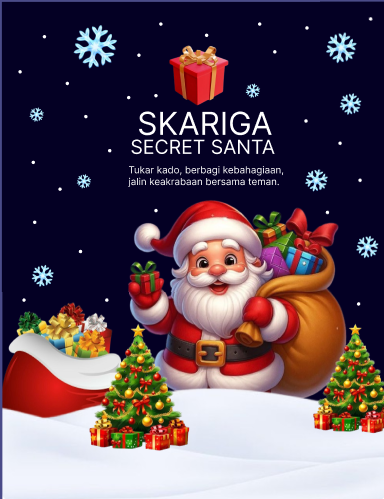
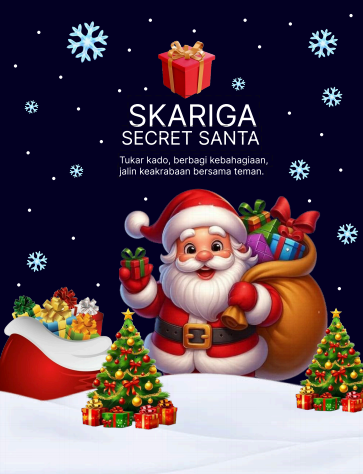
ubah page login

diff --git a/assets/css/login.css b/assets/css/login.css
@@ -4,18 +4,87 @@ body {
     color: #fff;
 }
 
-.login-box {
+.login-container {
+    width: 90%;
+    max-width: 900px;
+    height: 550px;
+    display: flex;
+    background: white;
+    overflow: hidden;
+    border-radius: 5px;
+}
+
+.login-image {
     width: 50%;
     height: 100vh;
     background-image: url('../img/login.png');
     background-size: cover;
     background-position: center;
+    background-repeat: no-repeat;
+
 }
-.login-image {
-        width : 505;
-        height :100vh;
-        display: flex;
-        align-items: center;
-        justify-content: center;
-        padding: 40o
-    }
+.login-box {
+    width: 50%;
+    height: 100%;
+    background: white;
+    display: flex;
+    flex-direction: column;
+    align-items: center;
+    justify-content: center;
+    padding: 40px;
+
+}
+.login-box h1 {
+    font-size: 30px;
+    font-weight: 900;
+    color: #050029;
+    margin-bottom: 0 0 8px 0;
+}
+
+.input-group {
+    width: 8;
+    margin-bottom: 20px;
+    flex-direction: column;
+
+}
+.input-group input {
+    width: 100%;
+    height: 40px;
+    padding: 0 15px;
+    border: 1px solid #d5d5d5;
+    border-radius: 7px;
+    outline: none;
+    font-size: 12px;
+    color: #333;
+    background: white;
+}
+
+.input-login {
+    width: 100%;
+    margin-bottom: 20px;
+    display: flex;
+    flex-direction: column;
+
+}
+.input-login button {
+    width: 100%;
+    height: 40px;
+    background: #d90032;
+    color: white;
+    border: none;
+    border-radius: 7px;
+    cursor: pointer;
+    font-size: 14px;
+    font-weight: 900;
+}
+.login-sub {
+    font-size: 12px;
+    color: #050029;
+    margin: 0 0 30px 0;
+    text-align: center;
+
+}
+.login-box form { 
+    width: 100%;
+    max-width: 330px;
+}

diff --git a/login.php b/login.php
@@ -5,21 +5,31 @@ require_once __DIR__ . '/includes/header.php';
 <link rel="stylesheet" href="assets/css/style.css">
 <link rel="stylesheet" href="assets/css/login.css">
 <div class="login-container">
+
   <div class="login-image"></div>
+  
 <div class="login-box">
+  <p class="login-sub"> selamat datang kembali </p>
     <h1>Login</h1>
-    <br><br>
-    <hr>
-    <br> <br>
     <form>
         <div class="input-group">
-        <input type="text" name="username" placeholder="Username">
+
+        <input
+        type="text"
+        name="username"
+        placeholder="Username">
          </div>
+
          <br>
+
           <div class="input-group">
-           <input type="password" name="password" placeholder="Password">
+           <input
+           type="password"
+           name="password"
+           placeholder="Password">
          </div>
-         <div class="input-group">
+
+         <div class="input-login">
        <button type="submit">Login</button>
       </div>
     </form>
